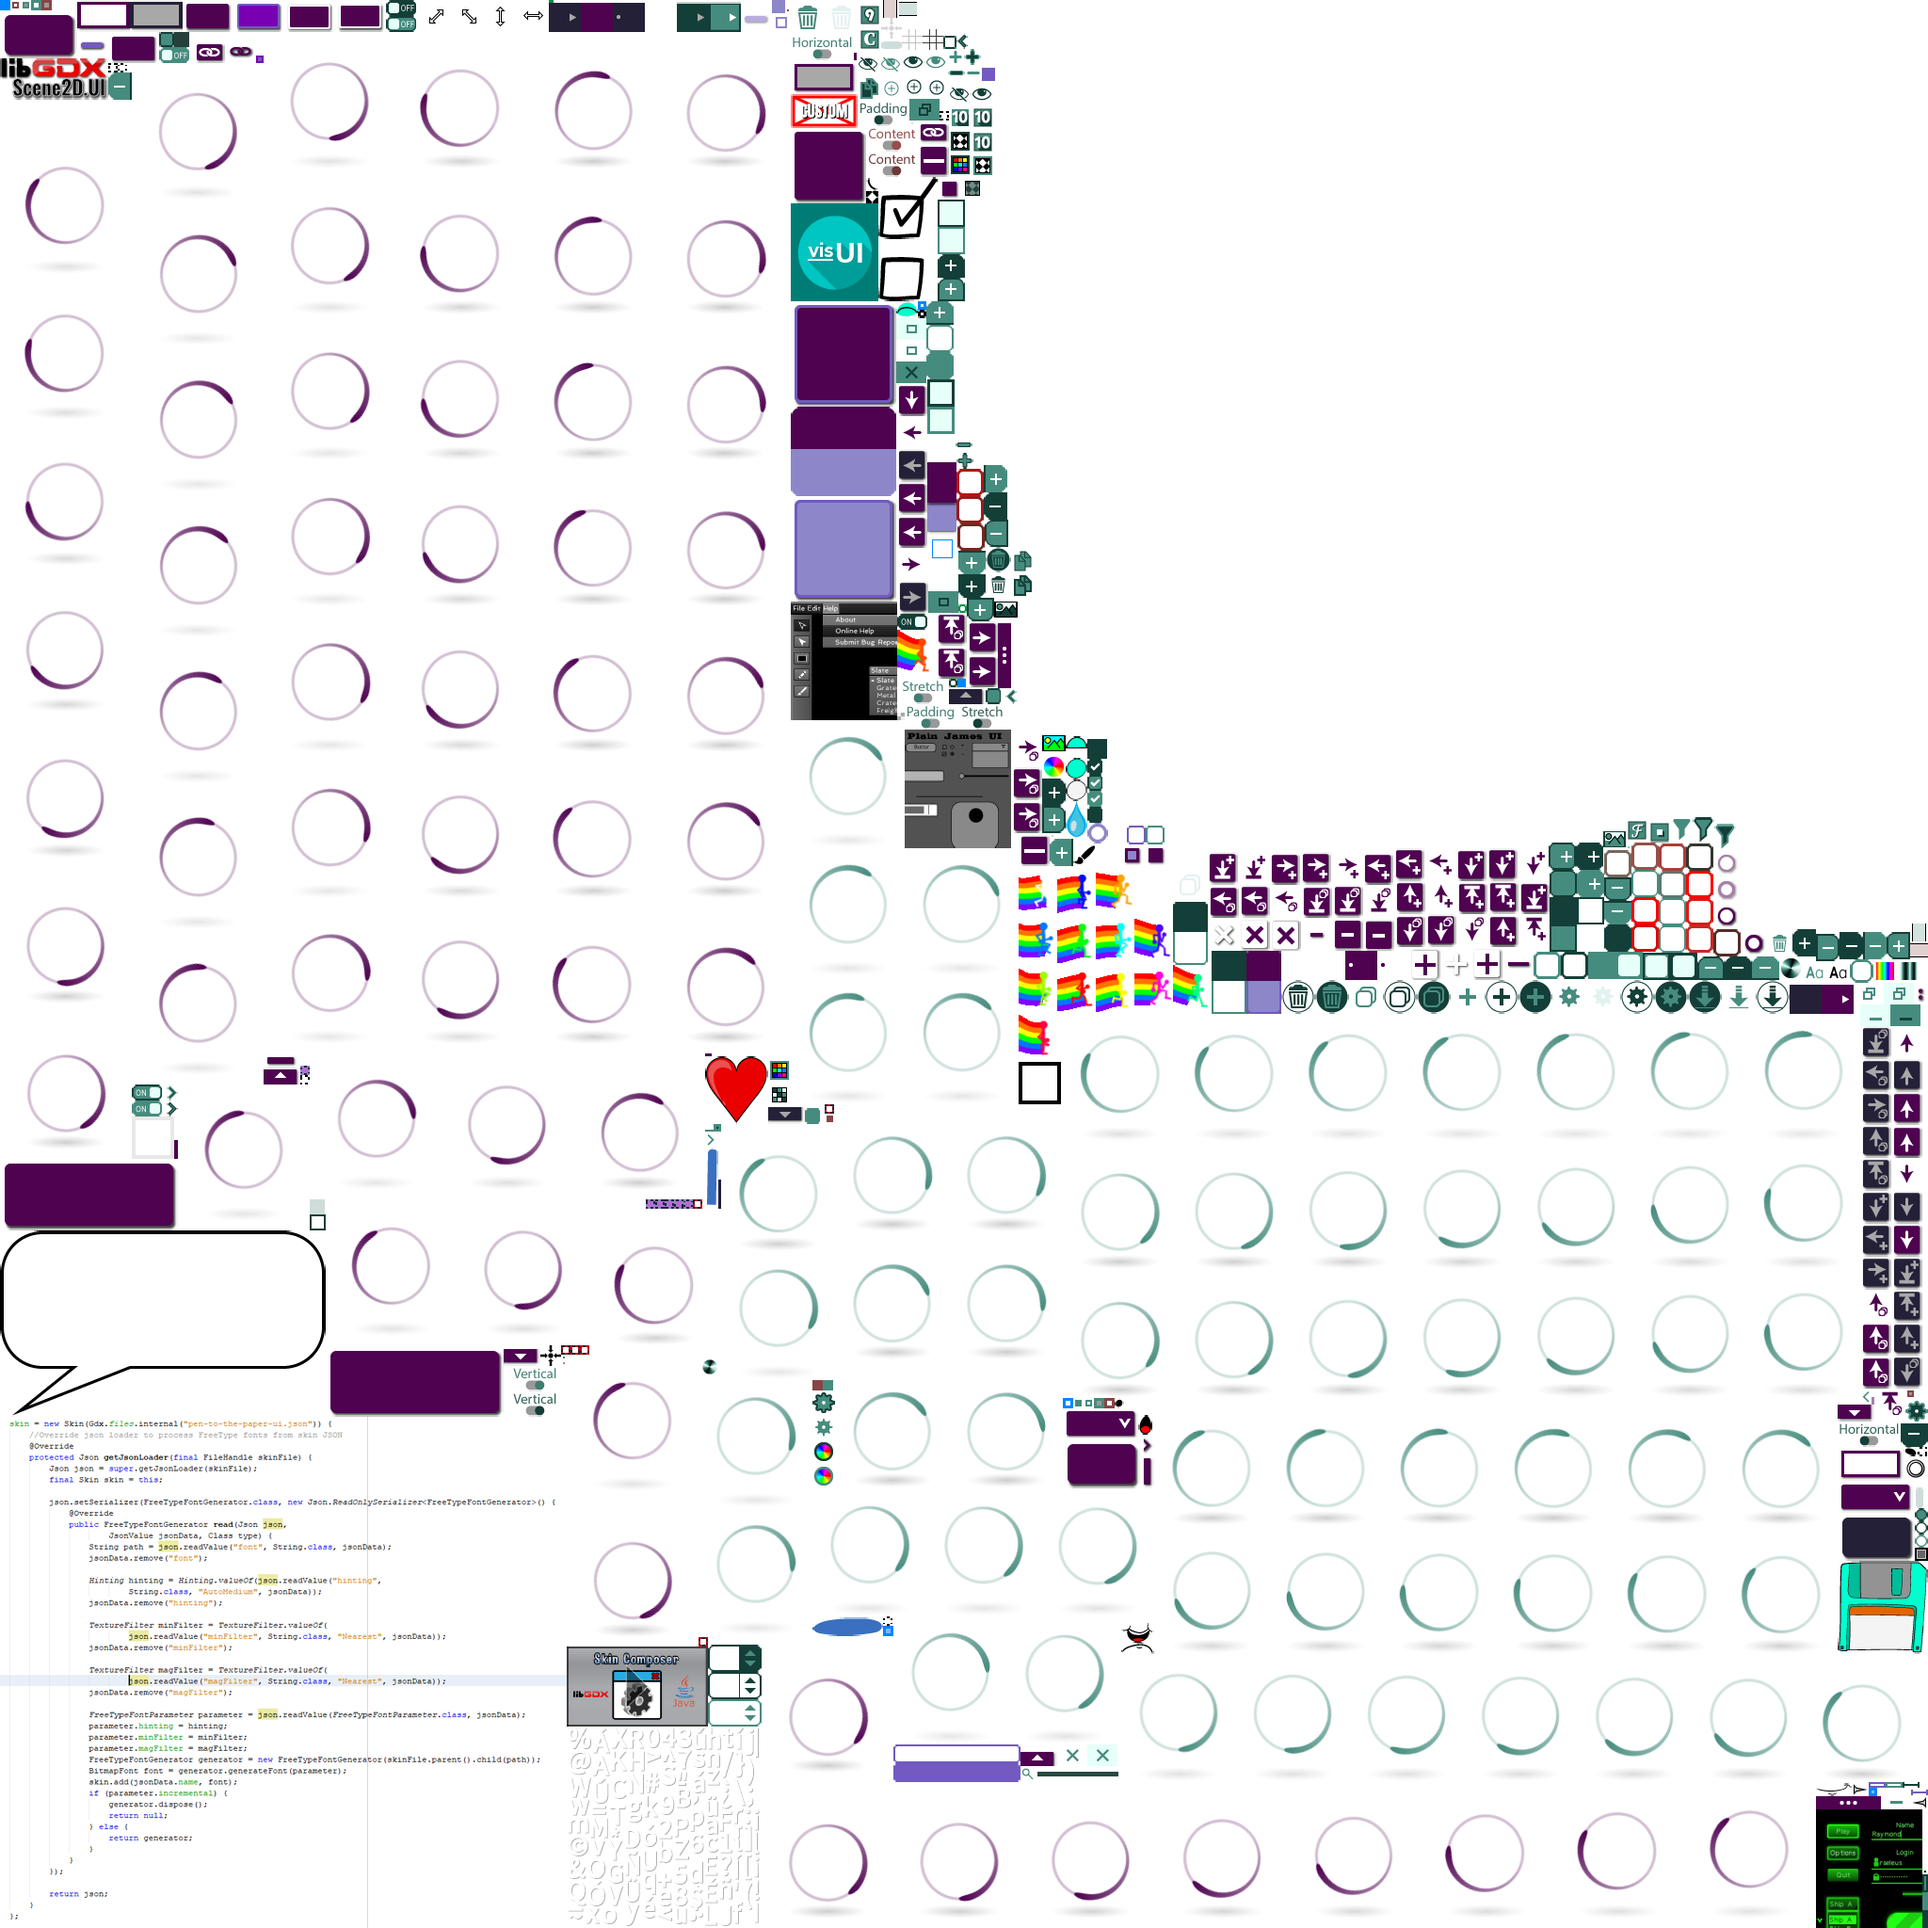
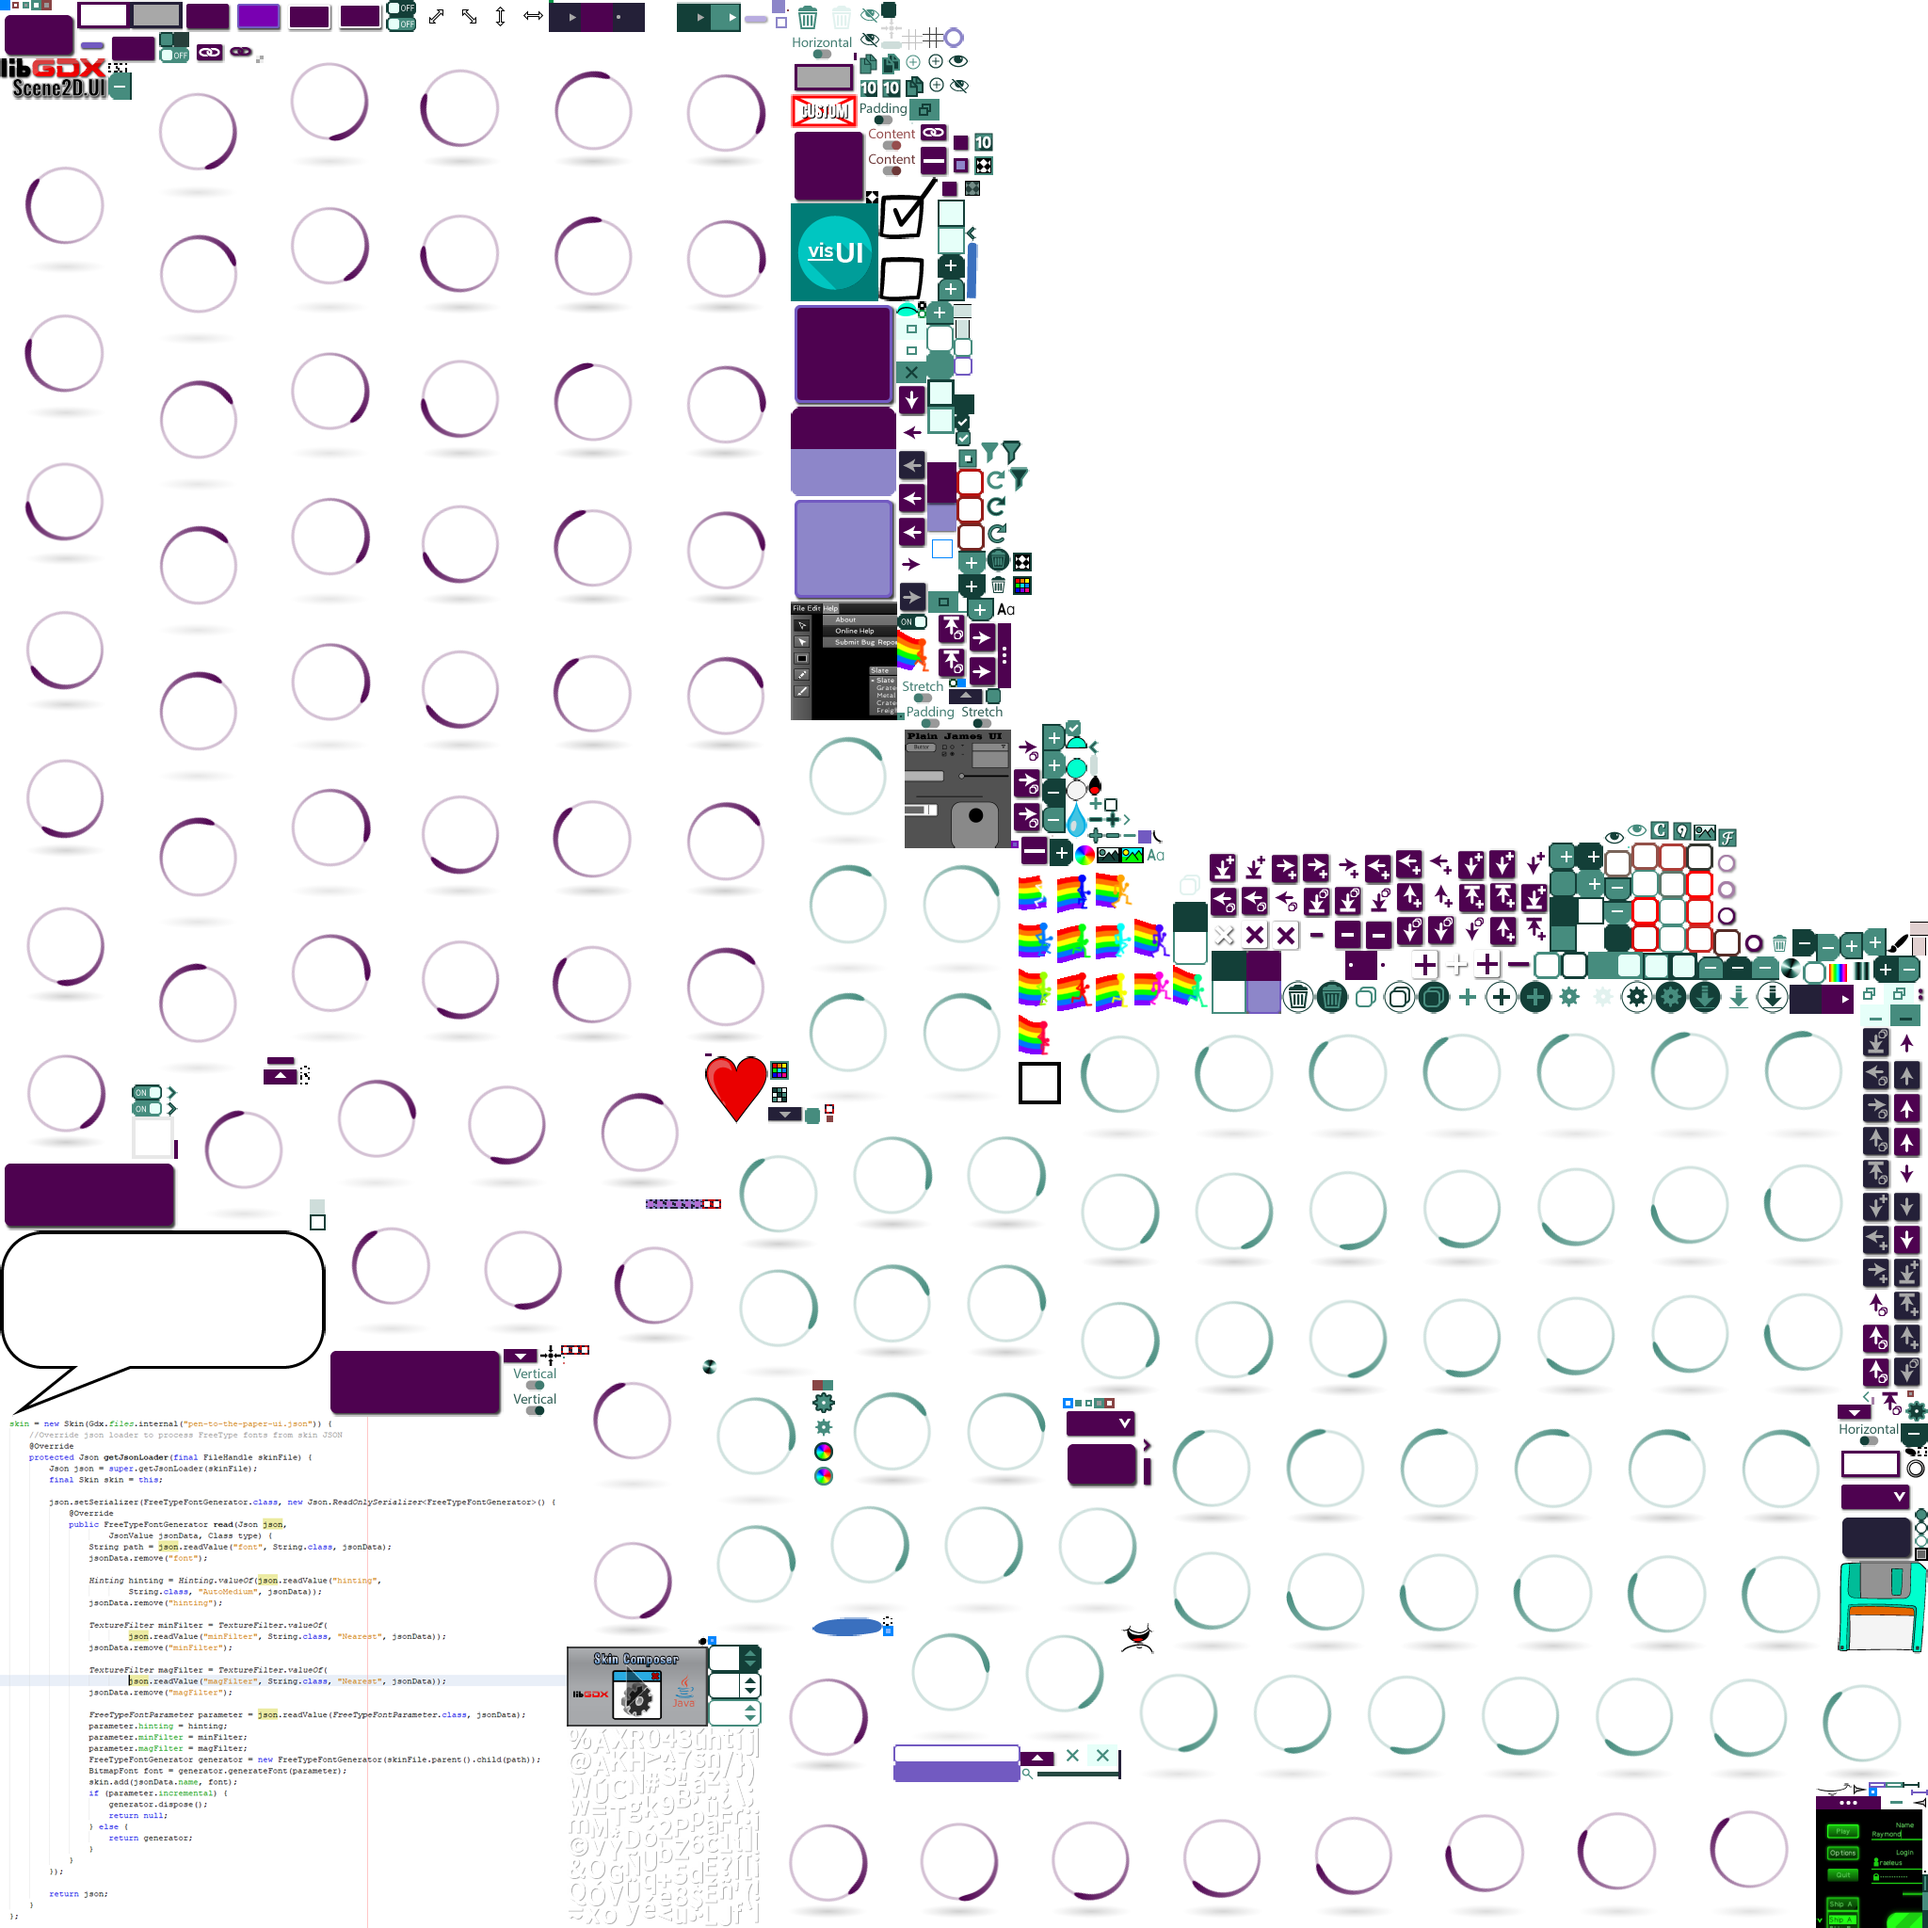
Refresh button and F5 keyboard shortcut is added to the Drawables dialog to reload all images.

diff --git a/core/src/com/ray3k/skincomposer/dialog/DialogDrawables.java b/core/src/com/ray3k/skincomposer/dialog/DialogDrawables.java
@@ -123,6 +123,24 @@ public class DialogDrawables extends Dialog {
         
         this.listener = listener;
         
+        addListener(new InputListener() {
+            /**
+             * Called when a key goes down. When true is returned, the event is {@link
+             * Event#handle() handled}.
+             *
+             * @param event
+             * @param keycode
+             */
+            @Override
+            public boolean keyDown(InputEvent event, int keycode) {
+                if (keycode == Keys.F5) {
+                    reloadAtlas();
+                    return true;
+                }
+                return false;
+            }
+        });
+        
         filesDroppedListener = (Array<FileHandle> files) -> {
             Iterator<FileHandle> iter = files.iterator();
             while (iter.hasNext()) {
@@ -214,6 +232,11 @@ public class DialogDrawables extends Dialog {
             }
         });
         
+        button = new Button(getSkin(), "refresh");
+        button.setName("refresh");
+        Utils.onChange(button, () -> reloadAtlas());
+        table.add(button);
+        
         table.add("Sort:");
         
         sortSelectBox = new SelectBox(getSkin());
@@ -284,6 +307,23 @@ public class DialogDrawables extends Dialog {
                 return false;
             }
         });
+    }
+    
+    private void reloadAtlas() {
+        dialogFactory.showDialogLoading(() -> Gdx.app.postRunnable(() -> {
+            try {
+                FileHandle defaultsFile = Main.appFolder.child("texturepacker/atlas-internal-settings.json");
+                projectData.getAtlasData().writeAtlas(defaultsFile);
+                projectData.getAtlasData().atlasCurrent = true;
+                atlasData.produceAtlas();
+                sortBySelectedMode();
+            } catch (Exception e) {
+                dialogFactory.showDialogError("Error", "Unable to write texture atlas to temporary storage!", null);
+                Gdx.app.error(getClass().getName(), "Unable to write texture atlas to temporary storage!", e);
+                dialogFactory.showDialogError("Atlas Error...",
+                        "Unable to write texture atlas to temporary storage.\n\nOpen log?");
+            }
+        }));
     }
     
     public class AddClickListener extends PopTableClickListener {

diff --git a/CHANGES.md b/CHANGES.md
@@ -1,4 +1,5 @@
 ### Skin Composer Version 47 ###
+* Refresh button and F5 keyboard shortcut is added to the Drawables dialog to reload all images.
 * Custom preview sizes are persisted from session to session.
 * Fixed file dialogs not opening on various platforms.
 * Fixed SceneComposer exporting SplitPane incorrectly.
